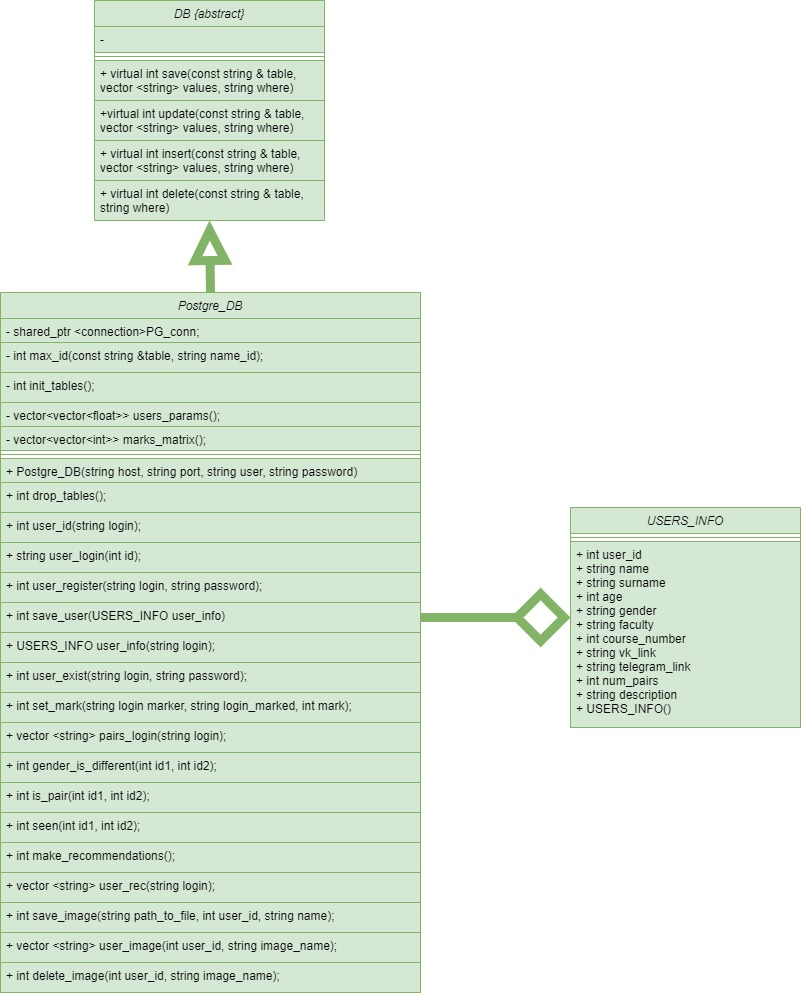
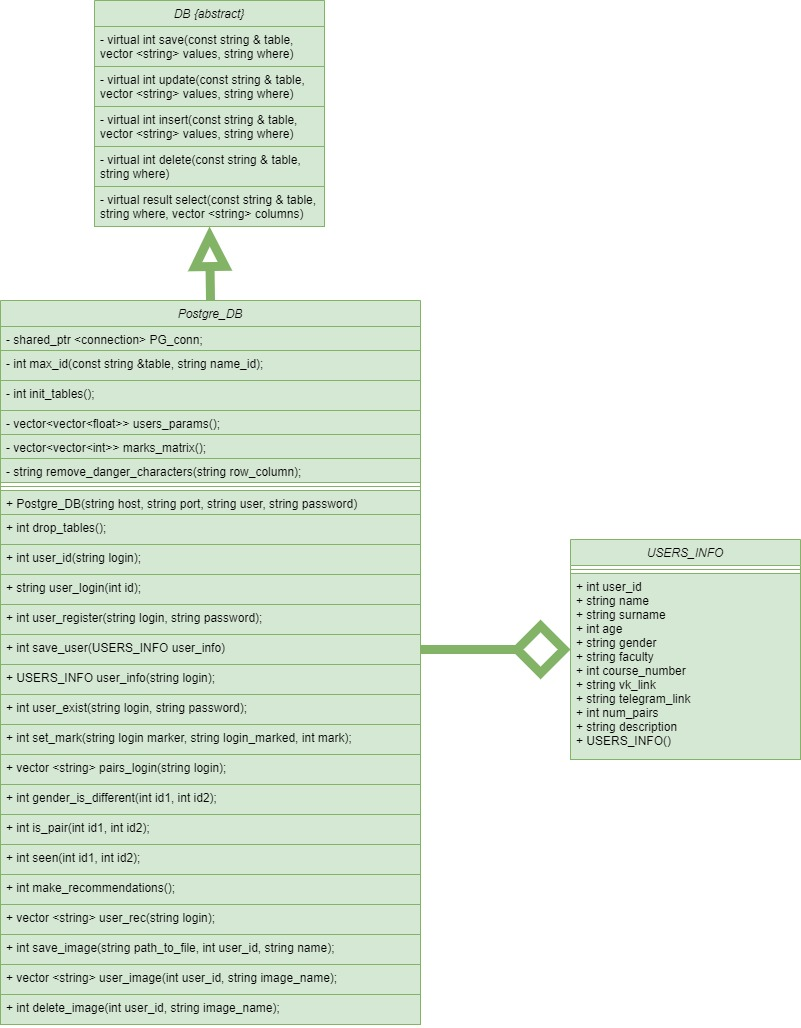
Update UML

Changed region(s): [[0.0, 0.0, 1.0, 0.996]]

diff --git a/include_db/DataBase.h b/include_db/DataBase.h
@@ -5,7 +5,7 @@
 using namespace pqxx;
 
 class DB {
-  public:
+  private:
     virtual int save(const std::string & table, std::vector <std::string> values, std::string where = "") = 0;
     virtual int update(const std::string & table, std::vector <std::string> values, std::string where = "") = 0;
     virtual int insert(const std::string & table, std::vector <std::string> values) = 0;
